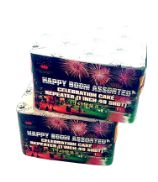
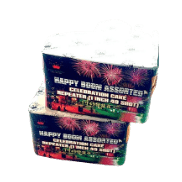
resize product image

Changed region(s): [[0.1013, 0.2473, 0.9367, 0.9341], [0.7089, 0.2473, 0.7848, 0.2747], [0.4051, 0.2198, 0.4304, 0.2473]]

diff --git a/scripts/app.js b/scripts/app.js
@@ -21,7 +21,7 @@ function generateProductHTML(product) {
         <div class="gd_li" id="product${product.id}">
           <a href="product_xq.html?id=${product.id}">
             <div class="pro_bg" style="background: url('images/pyrotechnics20230802/product-bg.png') no-repeat; background-size: 100%;">
-                <img style="opacity: 0.7" class="img" mode="widthFix" src="${imageUrl}" />
+                <img class="img" mode="widthFix" src="${imageUrl}" />
             </div>
           </a>
           <span class="dh_overpro gd_li_title">
